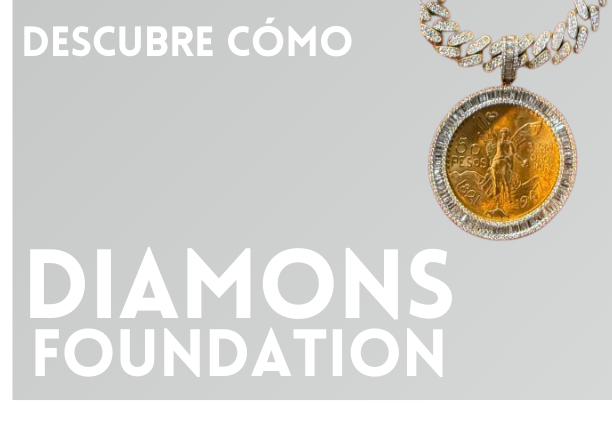
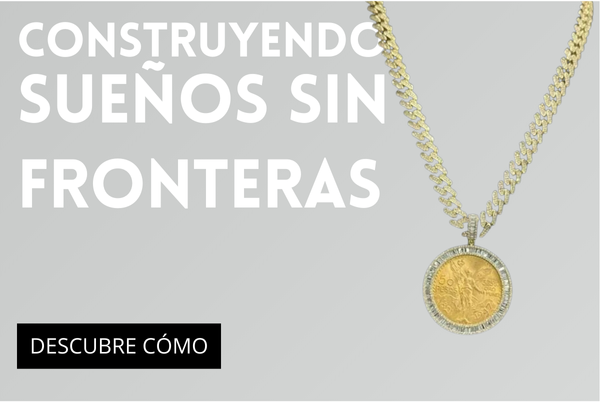
updating images 2

diff --git a/assets/index-2FLL3ZFg.js b/assets/index-2FLL3ZFg.js
@@ -82,4 +82,4 @@ Error generating stack: `+i.message+`
  *
  * This source code is licensed under the ISC license.
  * See the LICENSE file in the root directory of this source tree.
- */const Xf=wr("Users",[["path",{d:"M16 21v-2a4 4 0 0 0-4-4H6a4 4 0 0 0-4 4v2",key:"1yyitq"}],["circle",{cx:"9",cy:"7",r:"4",key:"nufk8"}],["path",{d:"M22 21v-2a4 4 0 0 0-3-3.87",key:"kshegd"}],["path",{d:"M16 3.13a4 4 0 0 1 0 7.75",key:"1da9ce"}]]);function Gf(){const[P,M]=ut.useState(!1),m={light:{primary:"bg-red-200",secondary:"bg-stone-100",background:"bg-white",text:"text-gray-800",card:"bg-pink-50"},dark:{primary:"bg-pink-800",secondary:"bg-stone-300",background:"bg-gray-900",text:"text-gray-100",card:"bg-gray-800"}},H=P?m.dark:m.light;return z.jsxs("div",{className:`min-h-screen ${H.background} ${H.text} transition-colors duration-300`,children:["      ",z.jsx("nav",{className:`${H.primary} p-4`,children:z.jsxs("div",{className:"container mx-auto flex justify-between items-center",children:[z.jsx("h1",{className:"text-2xl font-bold text-white",children:"Diamonds Foundation"}),z.jsx("button",{onClick:()=>M(!P),className:"p-2 rounded-full hover:bg-pink-700 transition-colors",children:P?z.jsx(Kf,{className:"text-white"}):z.jsx(Qf,{className:"text-white"})})]})}),z.jsx("div",{className:`${H.secondary} py-20 text-black`,children:z.jsxs("div",{className:"w-full mx-auto flex justify-between items-center 1``",children:[z.jsx("h2",{className:"text-4xl font-bold mb-4",children:"Tu generosidad puede cambiar la historia de una familia migrante hoy"}),z.jsx("a",{target:"_blank",className:`${H.primary} text-white px-6 py-2 rounded-full mt-6 hover:opacity-90 transition-opacity`,href:"https://diamondsfoundation.shop/sorteo/",children:"Compra aqui!"})]})}),z.jsxs("div",{className:"w-full mx-auto px-4 py-12 space-y-16",children:[z.jsxs("section",{className:"grid md:grid-cols-2 gap-8 items-center",children:[z.jsxs("div",{className:`${H.card} p-8 rounded-lg shadow-lg`,children:[z.jsxs("div",{className:"flex items-center gap-4 mb-4",children:[z.jsx(Wf,{className:"w-8 h-8 text-pink-600"}),z.jsx("h3",{className:"text-2xl font-bold",children:"Comprar mi Boleto"})]}),z.jsxs("p",{className:"mb-4",children:["Parte de lo recaudado será donado a ",z.jsx("a",{href:"https://losangelesdeldesierto.org/",children:"Fundación Angeles del Desierto"})]}),z.jsxs("ul",{className:"space-y-2",children:[z.jsx("li",{children:"Zell"}),z.jsx("li",{children:"PayPal"}),z.jsx("li",{children:"Transferecia Bancaria"})]})]}),z.jsx("div",{className:"hidden md:block",children:z.jsx("img",{src:"images/dark-pink-600-400-raffle.png",alt:"Donation Impact",className:"rounded-lg shadow-lg"})})]}),z.jsxs("section",{className:"grid md:grid-cols-2 gap-8 items-center",children:[z.jsx("div",{className:"hidden md:block",children:z.jsx("img",{src:"images/diamons-600-400-02.png",alt:"Our Team",className:"rounded-lg shadow-lg"})}),z.jsxs("div",{className:`${H.card} p-8 rounded-lg shadow-lg`,children:[z.jsxs("div",{className:"flex items-center gap-4 mb-4",children:[z.jsx(Xf,{className:"w-8 h-8 text-pink-600"}),z.jsx("h3",{className:"text-2xl font-bold",children:"Quienes Somos"})]}),z.jsx("p",{className:"mb-4",children:"Somos una fundación que comprende el corazón del migrante mexicano y su búsqueda del sueño americano. A través de iniciativas únicas de recaudación de fondos, como rifas de artículos de lujo, creamos puentes entre almas generosas y organizaciones dedicadas a apoyar a nuestros hermanos migrantes."}),z.jsx("p",{children:"Tu contribución se transforma en esperanza viva para quienes buscan un nuevo comienzo en Estados Unidos. Juntos, podemos hacer la diferencia."})]})]}),z.jsxs("section",{className:"grid md:grid-cols-2 gap-8 items-center",children:[z.jsxs("div",{className:`${H.card} p-8 rounded-lg shadow-lg`,children:[z.jsxs("div",{className:"flex items-center gap-4 mb-4",children:[z.jsx(Yf,{className:"w-8 h-8 text-pink-600"}),z.jsx("h3",{className:"text-2xl font-bold",children:"Misión y Visión"})]}),z.jsxs("div",{className:"space-y-6",children:[z.jsxs("div",{children:[z.jsx("h4",{className:"font-bold text-xl mb-2",children:"Misión"}),z.jsx("p",{children:"Misión Apoyar y fortalecer a fundaciones comprometidas con el bienestar y desarrollo de inmigrantes en los Estados Unidos, generando recursos mediante actividades innovadoras, como rifas de piezas de súper lujo, y garantizando un impacto sostenible que fomente la inclusión y el progreso social."})]}),z.jsxs("div",{children:[z.jsx("h4",{className:"font-bold text-xl mb-2",children:"Visión"}),z.jsx("p",{children:"Ser reconocida como una fundación pionera en los Estados Unidos, dedicada a transformar vidas mediante el apoyo a organizaciones que rescatan y respaldan a inmigrantes, impulsando un cambio positivo a través de la recaudación de fondos con iniciativas únicas y autosostenibles."})]})]})]}),z.jsx("div",{className:"hidden md:block",children:z.jsx("img",{src:"images/diamons-600-400-04.png",alt:"Mission Visual",className:"rounded-lg shadow-lg"})})]})]}),z.jsx("footer",{className:`${H.primary} mt-16 py-8 text-white`,children:z.jsx("div",{className:"container mx-auto px-4 text-center",children:z.jsx("p",{children:"© 2024 Diamonds Foundation. All rights reserved."})})})]})}Vf.createRoot(document.getElementById("root")).render(z.jsx(ut.StrictMode,{children:z.jsx(Gf,{})}));
+ */const Xf=wr("Users",[["path",{d:"M16 21v-2a4 4 0 0 0-4-4H6a4 4 0 0 0-4 4v2",key:"1yyitq"}],["circle",{cx:"9",cy:"7",r:"4",key:"nufk8"}],["path",{d:"M22 21v-2a4 4 0 0 0-3-3.87",key:"kshegd"}],["path",{d:"M16 3.13a4 4 0 0 1 0 7.75",key:"1da9ce"}]]);function Gf(){const[P,M]=ut.useState(!1),m={light:{primary:"bg-red-200",secondary:"bg-stone-100",background:"bg-white",text:"text-gray-800",card:"bg-pink-50"},dark:{primary:"bg-pink-800",secondary:"bg-stone-300",background:"bg-gray-900",text:"text-gray-100",card:"bg-gray-800"}},H=P?m.dark:m.light;return z.jsxs("div",{className:`min-h-screen ${H.background} ${H.text} transition-colors duration-300`,children:["      ",z.jsx("nav",{className:`${H.primary} p-4`,children:z.jsxs("div",{className:"container mx-auto flex justify-between items-center",children:[z.jsx("h1",{className:"text-2xl font-bold text-white",children:"Diamonds Foundation"}),z.jsx("button",{onClick:()=>M(!P),className:"p-2 rounded-full hover:bg-pink-700 transition-colors",children:P?z.jsx(Kf,{className:"text-white"}):z.jsx(Qf,{className:"text-white"})})]})}),z.jsx("div",{className:`${H.secondary} py-20 text-black`,children:z.jsxs("div",{className:"w-full mx-auto flex justify-between items-center px-8",children:[z.jsx("h2",{className:"text-4xl font-bold mb-4",children:"Tu generosidad puede cambiar la historia de una familia migrante hoy"}),z.jsx("a",{target:"_blank",className:`${H.primary} text-black px-6 py-2 mt-6 hover:bg-red-300 transition-opacity`,href:"https://diamondsfoundation.shop/sorteo/",children:"COMPRAR AQUI"})]})}),z.jsxs("div",{className:"w-full mx-auto px-4 py-12 space-y-16",children:[z.jsxs("section",{className:"grid md:grid-cols-2 gap-8 items-center",children:[z.jsxs("div",{className:`${H.card} p-8 rounded-lg shadow-lg`,children:[z.jsxs("div",{className:"flex items-center gap-4 mb-4",children:[z.jsx(Wf,{className:"w-8 h-8 text-pink-600"}),z.jsx("h3",{className:"text-2xl font-bold",children:"Comprar mi Boleto"})]}),z.jsxs("p",{className:"mb-4",children:["Parte de lo recaudado será donado a ",z.jsx("a",{href:"https://losangelesdeldesierto.org/",children:"Fundación Angeles del Desierto"})]}),z.jsxs("ul",{className:"space-y-2",children:[z.jsx("li",{children:"Zell"}),z.jsx("li",{children:"PayPal"}),z.jsx("li",{children:"Transferecia Bancaria"})]})]}),z.jsx("div",{className:"hidden md:block",children:z.jsx("img",{src:"images/diamons-600-400-01.png",alt:"Donation Impact",className:"rounded-lg shadow-lg"})})]}),z.jsxs("section",{className:"grid md:grid-cols-2 gap-8 items-center",children:[z.jsx("div",{className:"hidden md:block",children:z.jsx("img",{src:"images/diamons-600-400-02.png",alt:"Our Team",className:"rounded-lg shadow-lg"})}),z.jsxs("div",{className:`${H.card} p-8 rounded-lg shadow-lg`,children:[z.jsxs("div",{className:"flex items-center gap-4 mb-4",children:[z.jsx(Xf,{className:"w-8 h-8 text-pink-600"}),z.jsx("h3",{className:"text-2xl font-bold",children:"Quienes Somos"})]}),z.jsx("p",{className:"mb-4",children:"Somos una fundación que comprende el corazón del migrante mexicano y su búsqueda del sueño americano. A través de iniciativas únicas de recaudación de fondos, como rifas de artículos de lujo, creamos puentes entre almas generosas y organizaciones dedicadas a apoyar a nuestros hermanos migrantes."}),z.jsx("p",{children:"Tu contribución se transforma en esperanza viva para quienes buscan un nuevo comienzo en Estados Unidos. Juntos, podemos hacer la diferencia."})]})]}),z.jsxs("section",{className:"grid md:grid-cols-2 gap-8 items-center",children:[z.jsxs("div",{className:`${H.card} p-8 rounded-lg shadow-lg`,children:[z.jsxs("div",{className:"flex items-center gap-4 mb-4",children:[z.jsx(Yf,{className:"w-8 h-8 text-pink-600"}),z.jsx("h3",{className:"text-2xl font-bold",children:"Misión y Visión"})]}),z.jsxs("div",{className:"space-y-6",children:[z.jsxs("div",{children:[z.jsx("h4",{className:"font-bold text-xl mb-2",children:"Misión"}),z.jsx("p",{children:"Misión Apoyar y fortalecer a fundaciones comprometidas con el bienestar y desarrollo de inmigrantes en los Estados Unidos, generando recursos mediante actividades innovadoras, como rifas de piezas de súper lujo, y garantizando un impacto sostenible que fomente la inclusión y el progreso social."})]}),z.jsxs("div",{children:[z.jsx("h4",{className:"font-bold text-xl mb-2",children:"Visión"}),z.jsx("p",{children:"Ser reconocida como una fundación pionera en los Estados Unidos, dedicada a transformar vidas mediante el apoyo a organizaciones que rescatan y respaldan a inmigrantes, impulsando un cambio positivo a través de la recaudación de fondos con iniciativas únicas y autosostenibles."})]})]})]}),z.jsx("div",{className:"hidden md:block",children:z.jsx("img",{src:"images/diamons-600-400-03.png",alt:"Mission Visual",className:"rounded-lg shadow-lg"})})]})]}),z.jsx("footer",{className:`${H.primary} mt-16 py-8 text-white`,children:z.jsx("div",{className:"container mx-auto px-4 text-center",children:z.jsx("p",{children:"© 2024 Diamonds Foundation. All rights reserved."})})})]})}Vf.createRoot(document.getElementById("root")).render(z.jsx(ut.StrictMode,{children:z.jsx(Gf,{})}));

diff --git a/assets/index-CDUHHcnm.css b/assets/index-CDUHHcnm.css
@@ -1,0 +1,1 @@
+*,:before,:after{--tw-border-spacing-x: 0;--tw-border-spacing-y: 0;--tw-translate-x: 0;--tw-translate-y: 0;--tw-rotate: 0;--tw-skew-x: 0;--tw-skew-y: 0;--tw-scale-x: 1;--tw-scale-y: 1;--tw-pan-x: ;--tw-pan-y: ;--tw-pinch-zoom: ;--tw-scroll-snap-strictness: proximity;--tw-gradient-from-position: ;--tw-gradient-via-position: ;--tw-gradient-to-position: ;--tw-ordinal: ;--tw-slashed-zero: ;--tw-numeric-figure: ;--tw-numeric-spacing: ;--tw-numeric-fraction: ;--tw-ring-inset: ;--tw-ring-offset-width: 0px;--tw-ring-offset-color: #fff;--tw-ring-color: rgb(59 130 246 / .5);--tw-ring-offset-shadow: 0 0 #0000;--tw-ring-shadow: 0 0 #0000;--tw-shadow: 0 0 #0000;--tw-shadow-colored: 0 0 #0000;--tw-blur: ;--tw-brightness: ;--tw-contrast: ;--tw-grayscale: ;--tw-hue-rotate: ;--tw-invert: ;--tw-saturate: ;--tw-sepia: ;--tw-drop-shadow: ;--tw-backdrop-blur: ;--tw-backdrop-brightness: ;--tw-backdrop-contrast: ;--tw-backdrop-grayscale: ;--tw-backdrop-hue-rotate: ;--tw-backdrop-invert: ;--tw-backdrop-opacity: ;--tw-backdrop-saturate: ;--tw-backdrop-sepia: ;--tw-contain-size: ;--tw-contain-layout: ;--tw-contain-paint: ;--tw-contain-style: }::backdrop{--tw-border-spacing-x: 0;--tw-border-spacing-y: 0;--tw-translate-x: 0;--tw-translate-y: 0;--tw-rotate: 0;--tw-skew-x: 0;--tw-skew-y: 0;--tw-scale-x: 1;--tw-scale-y: 1;--tw-pan-x: ;--tw-pan-y: ;--tw-pinch-zoom: ;--tw-scroll-snap-strictness: proximity;--tw-gradient-from-position: ;--tw-gradient-via-position: ;--tw-gradient-to-position: ;--tw-ordinal: ;--tw-slashed-zero: ;--tw-numeric-figure: ;--tw-numeric-spacing: ;--tw-numeric-fraction: ;--tw-ring-inset: ;--tw-ring-offset-width: 0px;--tw-ring-offset-color: #fff;--tw-ring-color: rgb(59 130 246 / .5);--tw-ring-offset-shadow: 0 0 #0000;--tw-ring-shadow: 0 0 #0000;--tw-shadow: 0 0 #0000;--tw-shadow-colored: 0 0 #0000;--tw-blur: ;--tw-brightness: ;--tw-contrast: ;--tw-grayscale: ;--tw-hue-rotate: ;--tw-invert: ;--tw-saturate: ;--tw-sepia: ;--tw-drop-shadow: ;--tw-backdrop-blur: ;--tw-backdrop-brightness: ;--tw-backdrop-contrast: ;--tw-backdrop-grayscale: ;--tw-backdrop-hue-rotate: ;--tw-backdrop-invert: ;--tw-backdrop-opacity: ;--tw-backdrop-saturate: ;--tw-backdrop-sepia: ;--tw-contain-size: ;--tw-contain-layout: ;--tw-contain-paint: ;--tw-contain-style: }*,:before,:after{box-sizing:border-box;border-width:0;border-style:solid;border-color:#e5e7eb}:before,:after{--tw-content: ""}html,:host{line-height:1.5;-webkit-text-size-adjust:100%;-moz-tab-size:4;-o-tab-size:4;tab-size:4;font-family:ui-sans-serif,system-ui,sans-serif,"Apple Color Emoji","Segoe UI Emoji",Segoe UI Symbol,"Noto Color Emoji";font-feature-settings:normal;font-variation-settings:normal;-webkit-tap-highlight-color:transparent}body{margin:0;line-height:inherit}hr{height:0;color:inherit;border-top-width:1px}abbr:where([title]){-webkit-text-decoration:underline dotted;text-decoration:underline dotted}h1,h2,h3,h4,h5,h6{font-size:inherit;font-weight:inherit}a{color:inherit;text-decoration:inherit}b,strong{font-weight:bolder}code,kbd,samp,pre{font-family:ui-monospace,SFMono-Regular,Menlo,Monaco,Consolas,Liberation Mono,Courier New,monospace;font-feature-settings:normal;font-variation-settings:normal;font-size:1em}small{font-size:80%}sub,sup{font-size:75%;line-height:0;position:relative;vertical-align:baseline}sub{bottom:-.25em}sup{top:-.5em}table{text-indent:0;border-color:inherit;border-collapse:collapse}button,input,optgroup,select,textarea{font-family:inherit;font-feature-settings:inherit;font-variation-settings:inherit;font-size:100%;font-weight:inherit;line-height:inherit;letter-spacing:inherit;color:inherit;margin:0;padding:0}button,select{text-transform:none}button,input:where([type=button]),input:where([type=reset]),input:where([type=submit]){-webkit-appearance:button;background-color:transparent;background-image:none}:-moz-focusring{outline:auto}:-moz-ui-invalid{box-shadow:none}progress{vertical-align:baseline}::-webkit-inner-spin-button,::-webkit-outer-spin-button{height:auto}[type=search]{-webkit-appearance:textfield;outline-offset:-2px}::-webkit-search-decoration{-webkit-appearance:none}::-webkit-file-upload-button{-webkit-appearance:button;font:inherit}summary{display:list-item}blockquote,dl,dd,h1,h2,h3,h4,h5,h6,hr,figure,p,pre{margin:0}fieldset{margin:0;padding:0}legend{padding:0}ol,ul,menu{list-style:none;margin:0;padding:0}dialog{padding:0}textarea{resize:vertical}input::-moz-placeholder,textarea::-moz-placeholder{opacity:1;color:#9ca3af}input::placeholder,textarea::placeholder{opacity:1;color:#9ca3af}button,[role=button]{cursor:pointer}:disabled{cursor:default}img,svg,video,canvas,audio,iframe,embed,object{display:block;vertical-align:middle}img,video{max-width:100%;height:auto}[hidden]:where(:not([hidden=until-found])){display:none}.container{width:100%}@media (min-width: 640px){.container{max-width:640px}}@media (min-width: 768px){.container{max-width:768px}}@media (min-width: 1024px){.container{max-width:1024px}}@media (min-width: 1280px){.container{max-width:1280px}}@media (min-width: 1536px){.container{max-width:1536px}}.mx-auto{margin-left:auto;margin-right:auto}.mb-2{margin-bottom:.5rem}.mb-4{margin-bottom:1rem}.mt-16{margin-top:4rem}.mt-6{margin-top:1.5rem}.flex{display:flex}.grid{display:grid}.hidden{display:none}.h-8{height:2rem}.min-h-screen{min-height:100vh}.w-8{width:2rem}.w-full{width:100%}.items-center{align-items:center}.justify-between{justify-content:space-between}.gap-4{gap:1rem}.gap-8{gap:2rem}.space-y-16>:not([hidden])~:not([hidden]){--tw-space-y-reverse: 0;margin-top:calc(4rem * calc(1 - var(--tw-space-y-reverse)));margin-bottom:calc(4rem * var(--tw-space-y-reverse))}.space-y-2>:not([hidden])~:not([hidden]){--tw-space-y-reverse: 0;margin-top:calc(.5rem * calc(1 - var(--tw-space-y-reverse)));margin-bottom:calc(.5rem * var(--tw-space-y-reverse))}.space-y-6>:not([hidden])~:not([hidden]){--tw-space-y-reverse: 0;margin-top:calc(1.5rem * calc(1 - var(--tw-space-y-reverse)));margin-bottom:calc(1.5rem * var(--tw-space-y-reverse))}.rounded-full{border-radius:9999px}.rounded-lg{border-radius:.5rem}.bg-gray-800{--tw-bg-opacity: 1;background-color:rgb(31 41 55 / var(--tw-bg-opacity, 1))}.bg-gray-900{--tw-bg-opacity: 1;background-color:rgb(17 24 39 / var(--tw-bg-opacity, 1))}.bg-pink-50{--tw-bg-opacity: 1;background-color:rgb(253 242 248 / var(--tw-bg-opacity, 1))}.bg-pink-800{--tw-bg-opacity: 1;background-color:rgb(157 23 77 / var(--tw-bg-opacity, 1))}.bg-red-200{--tw-bg-opacity: 1;background-color:rgb(254 202 202 / var(--tw-bg-opacity, 1))}.bg-stone-100{--tw-bg-opacity: 1;background-color:rgb(245 245 244 / var(--tw-bg-opacity, 1))}.bg-stone-300{--tw-bg-opacity: 1;background-color:rgb(214 211 209 / var(--tw-bg-opacity, 1))}.bg-white{--tw-bg-opacity: 1;background-color:rgb(255 255 255 / var(--tw-bg-opacity, 1))}.p-2{padding:.5rem}.p-4{padding:1rem}.p-8{padding:2rem}.px-4{padding-left:1rem;padding-right:1rem}.px-6{padding-left:1.5rem;padding-right:1.5rem}.px-8{padding-left:2rem;padding-right:2rem}.py-12{padding-top:3rem;padding-bottom:3rem}.py-2{padding-top:.5rem;padding-bottom:.5rem}.py-20{padding-top:5rem;padding-bottom:5rem}.py-8{padding-top:2rem;padding-bottom:2rem}.text-center{text-align:center}.text-2xl{font-size:1.5rem;line-height:2rem}.text-4xl{font-size:2.25rem;line-height:2.5rem}.text-xl{font-size:1.25rem;line-height:1.75rem}.font-bold{font-weight:700}.text-black{--tw-text-opacity: 1;color:rgb(0 0 0 / var(--tw-text-opacity, 1))}.text-gray-100{--tw-text-opacity: 1;color:rgb(243 244 246 / var(--tw-text-opacity, 1))}.text-gray-800{--tw-text-opacity: 1;color:rgb(31 41 55 / var(--tw-text-opacity, 1))}.text-pink-600{--tw-text-opacity: 1;color:rgb(219 39 119 / var(--tw-text-opacity, 1))}.text-white{--tw-text-opacity: 1;color:rgb(255 255 255 / var(--tw-text-opacity, 1))}.shadow-lg{--tw-shadow: 0 10px 15px -3px rgb(0 0 0 / .1), 0 4px 6px -4px rgb(0 0 0 / .1);--tw-shadow-colored: 0 10px 15px -3px var(--tw-shadow-color), 0 4px 6px -4px var(--tw-shadow-color);box-shadow:var(--tw-ring-offset-shadow, 0 0 #0000),var(--tw-ring-shadow, 0 0 #0000),var(--tw-shadow)}.transition-colors{transition-property:color,background-color,border-color,text-decoration-color,fill,stroke;transition-timing-function:cubic-bezier(.4,0,.2,1);transition-duration:.15s}.transition-opacity{transition-property:opacity;transition-timing-function:cubic-bezier(.4,0,.2,1);transition-duration:.15s}.duration-300{transition-duration:.3s}:root{font-family:Inter,system-ui,Avenir,Helvetica,Arial,sans-serif;line-height:1.5;font-weight:400;color-scheme:light dark;color:#ffffffde;background-color:#242424;font-synthesis:none;text-rendering:optimizeLegibility;-webkit-font-smoothing:antialiased;-moz-osx-font-smoothing:grayscale}a{font-weight:500;color:#646cff;text-decoration:inherit}a:hover{text-decoration:none}body{margin:0;display:flex;place-items:center;min-width:320px;min-height:100vh}h1{font-size:3.2em;line-height:1.1}button{border-radius:8px;border:1px solid transparent;padding:.6em 1.2em;font-size:1em;font-weight:500;font-family:inherit;background-color:#1a1a1a;cursor:pointer;transition:border-color .25s}button:hover{border-color:#fff}button:focus,button:focus-visible{outline:4px auto -webkit-focus-ring-color}@media (prefers-color-scheme: light){:root{color:#213547;background-color:#fff}button{background-color:#f9f9f9}}.centenario-bg{background-image:url(/images/dark-pink-600-400-raffle.png);background-size:cover;background-position:center;height:40dvh}.hover\:bg-pink-700:hover{--tw-bg-opacity: 1;background-color:rgb(190 24 93 / var(--tw-bg-opacity, 1))}.hover\:bg-red-300:hover{--tw-bg-opacity: 1;background-color:rgb(252 165 165 / var(--tw-bg-opacity, 1))}@media (min-width: 768px){.md\:block{display:block}.md\:grid-cols-2{grid-template-columns:repeat(2,minmax(0,1fr))}}

diff --git a/index.html b/index.html
@@ -5,8 +5,8 @@
     <link rel="icon" type="image/x-icon" href="./icono.webp">
     <meta name="viewport" content="width=device-width, initial-scale=1.0" />
     <title>Diamonds Foundation - Landing page</title>
-    <script type="module" crossorigin src="/assets/index-vDXlD1pf.js"></script>
-    <link rel="stylesheet" crossorigin href="/assets/index-CuGF-9lM.css">
+    <script type="module" crossorigin src="/assets/index-2FLL3ZFg.js"></script>
+    <link rel="stylesheet" crossorigin href="/assets/index-CDUHHcnm.css">
   </head>
   <body>
     <div id="root"></div>
